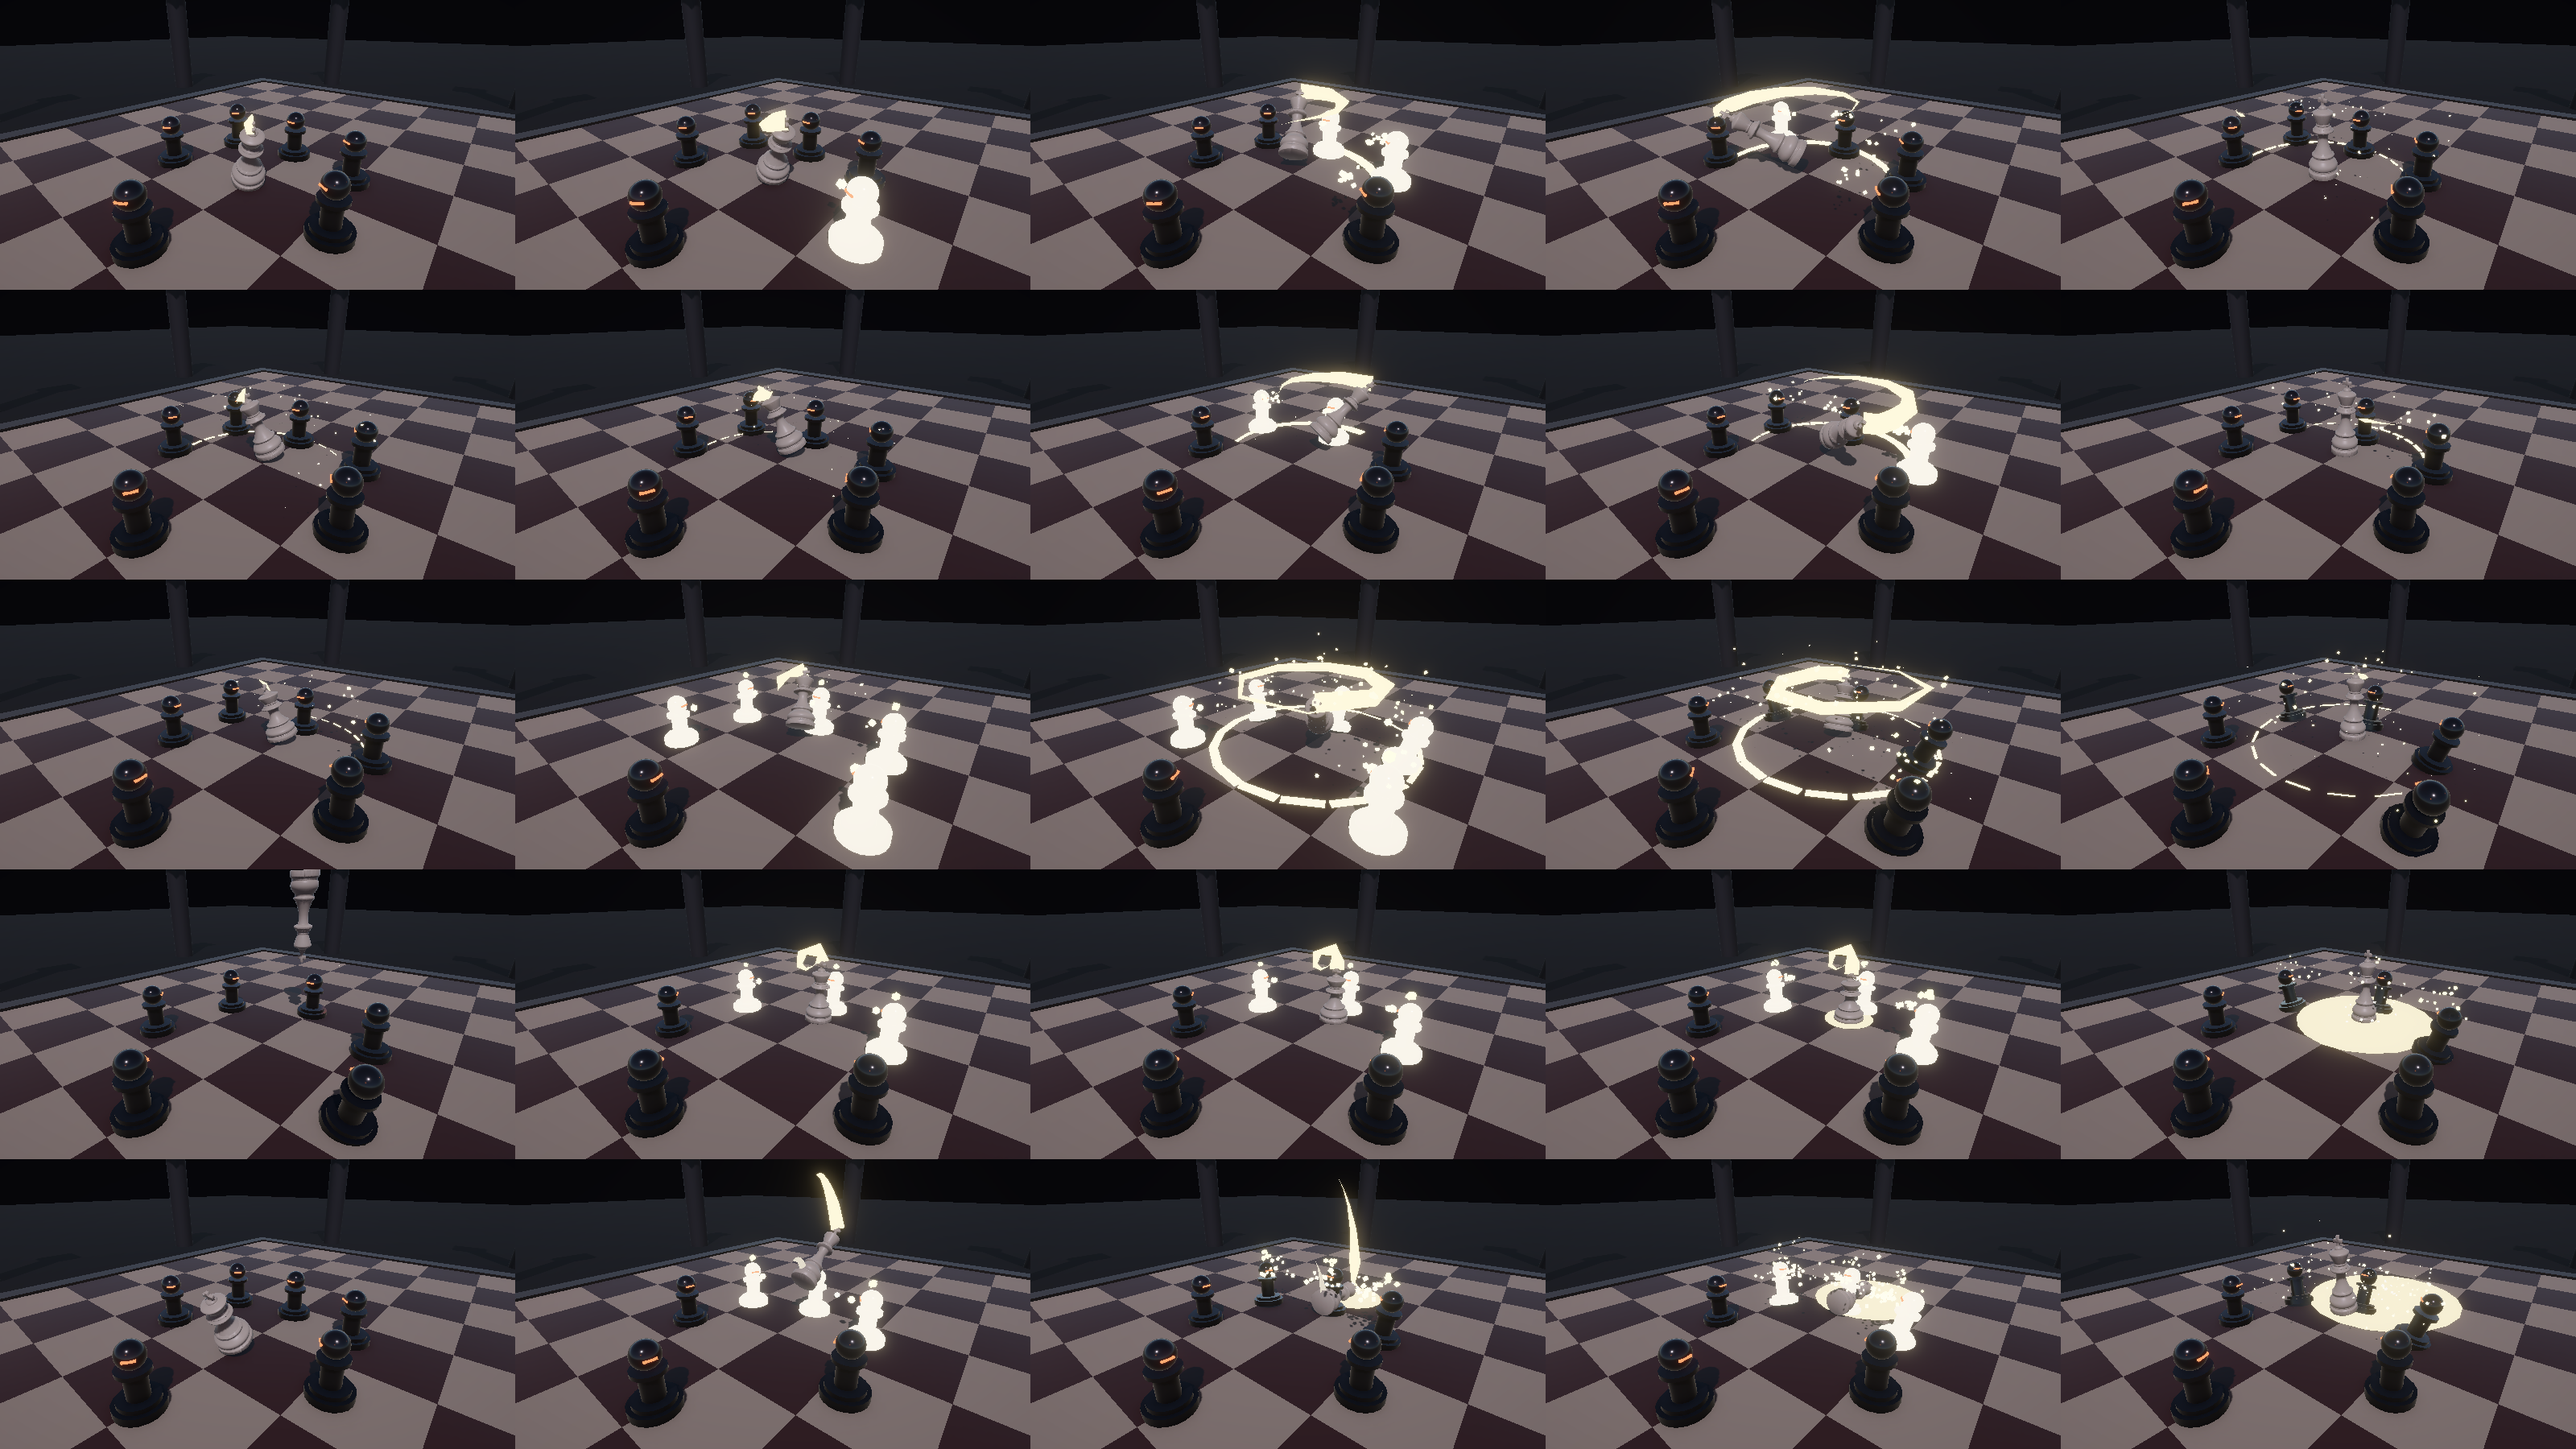
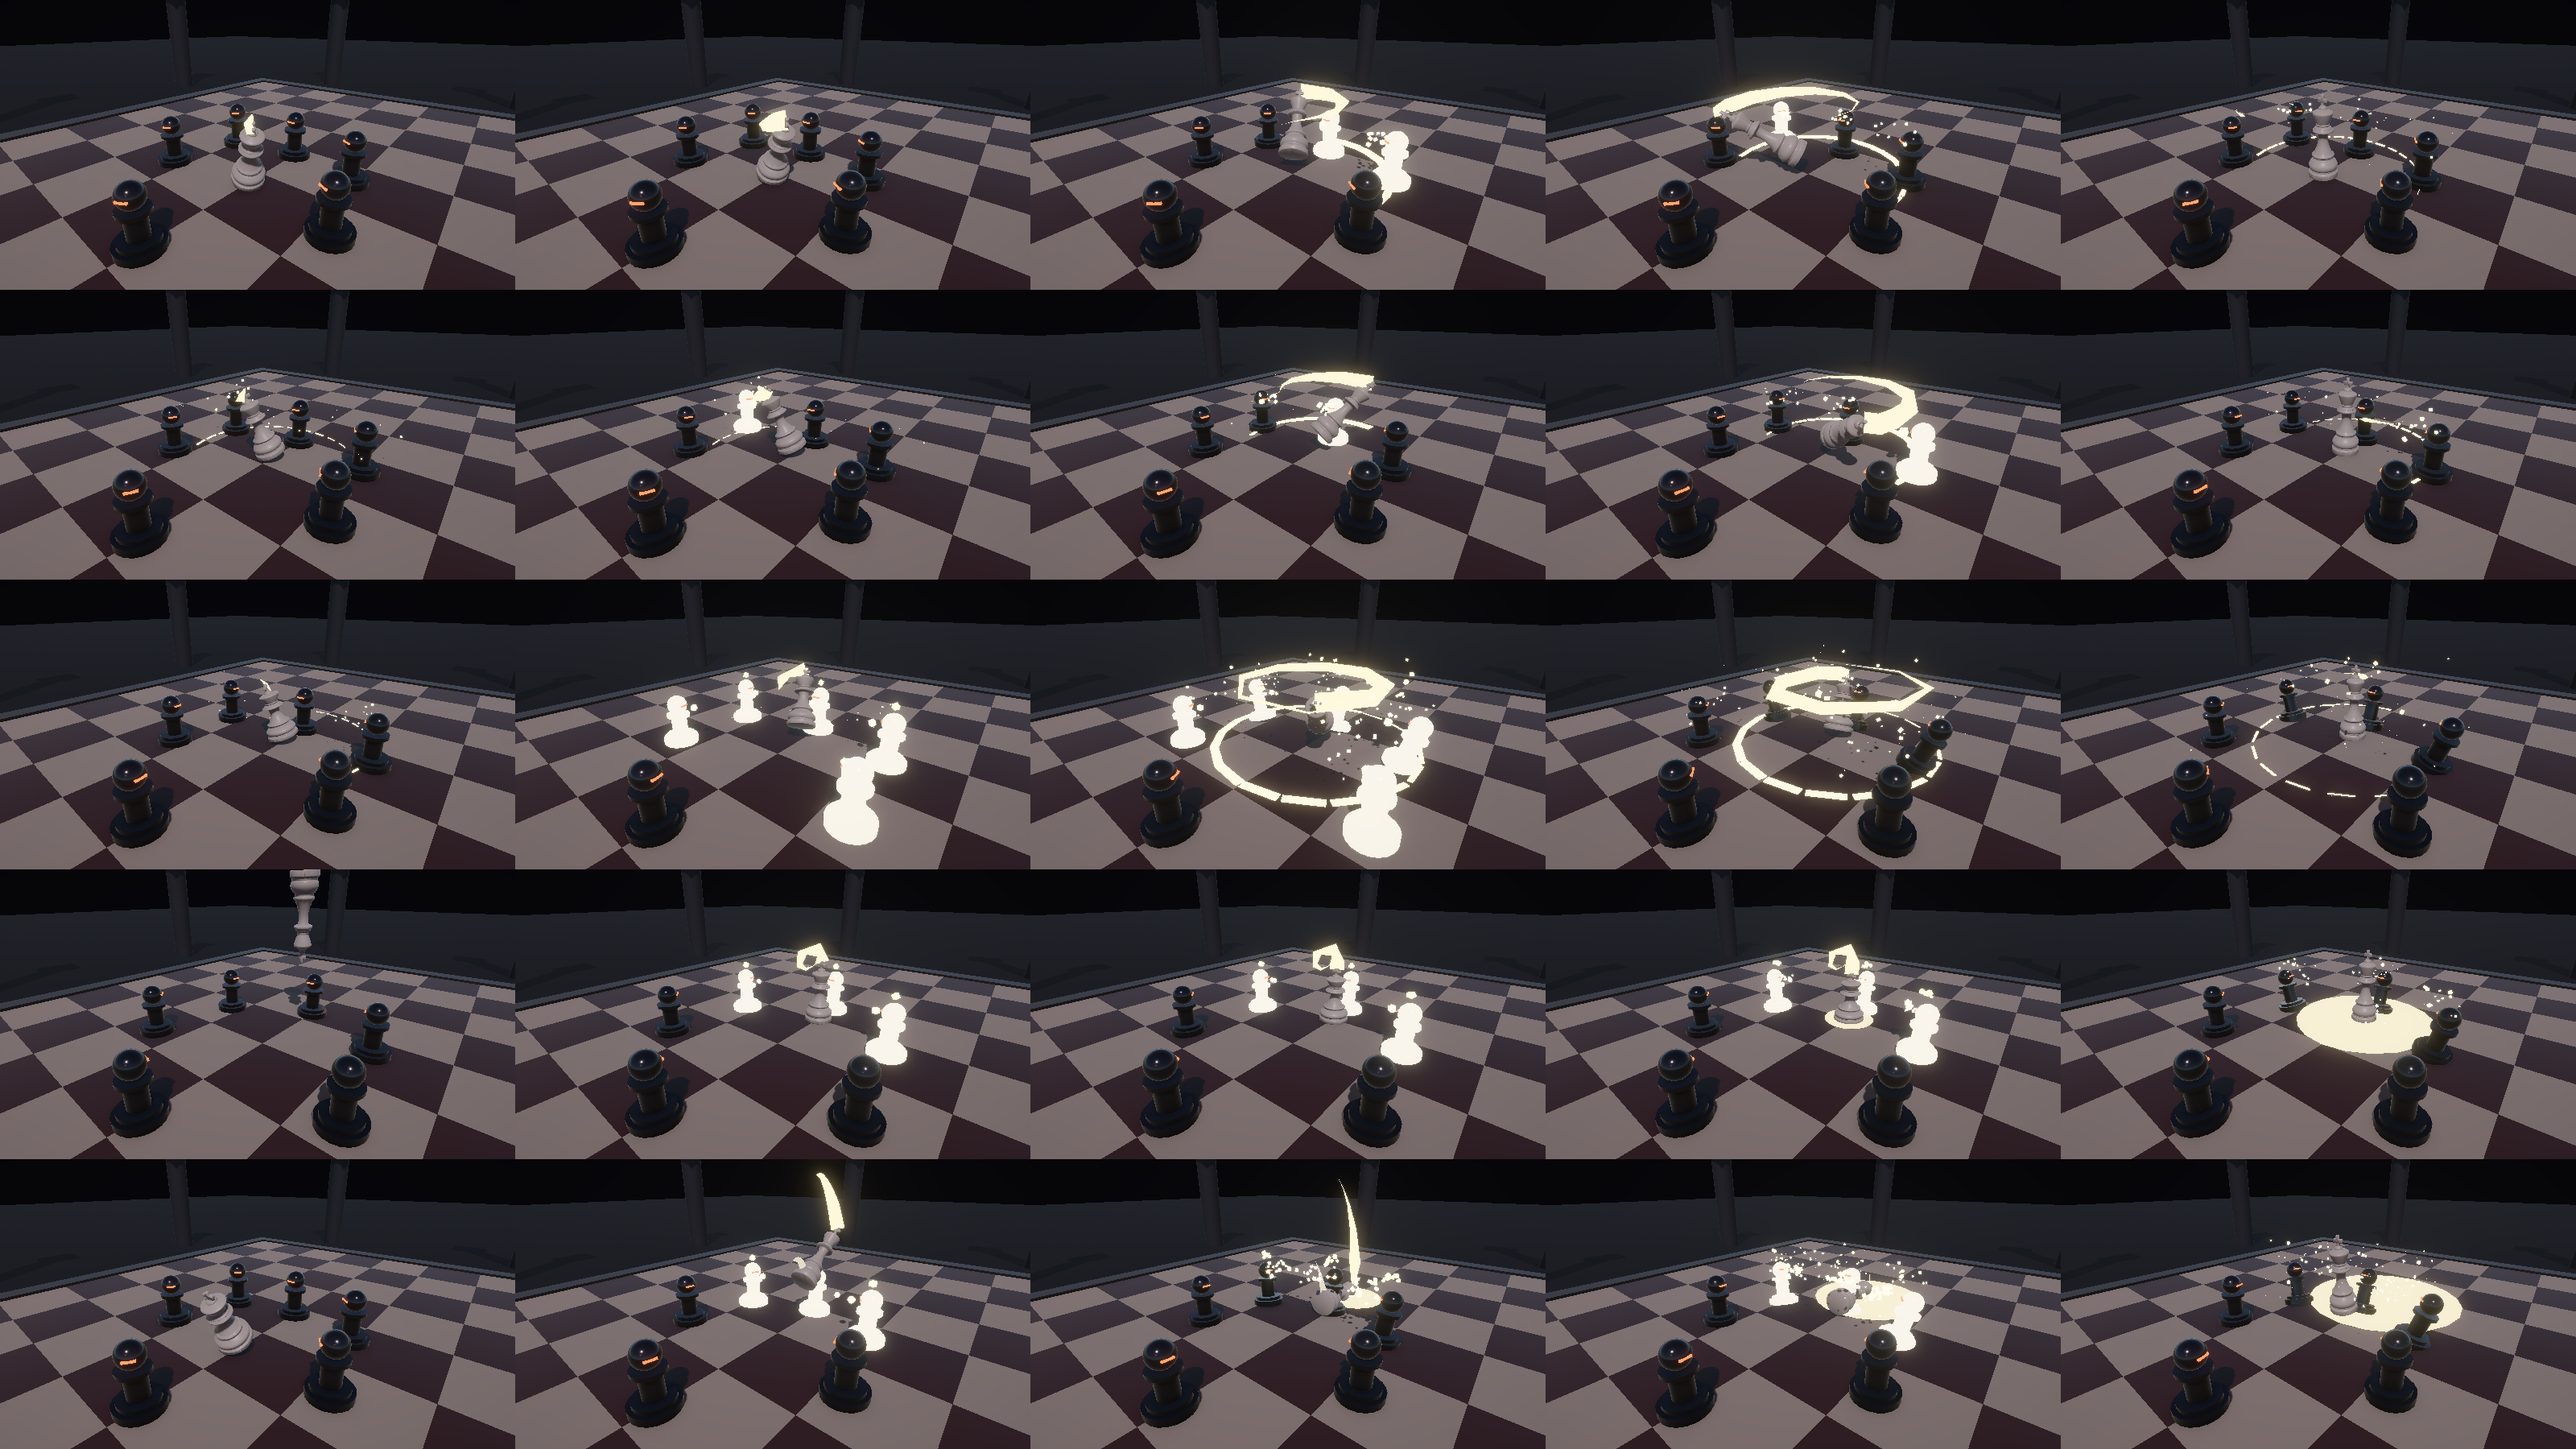
Sprint, cheaper light attacks, throw damage on landing, whips reach forward
- Shift / L3 sprint (8.2 speed, 14 stamina/s, exhaustion until 20) with a
  bigger hop and lean; sprinting breaks lock-on facing
- Light (combo) attacks cost 35% of their listed stamina
- Royal Throw: all damage (75) now lands on impact so the piece always flies
- Royal Whip hit center moved 0.6 forward

diff --git a/Assets/Scripts/Combat/PlayerController.cs b/Assets/Scripts/Combat/PlayerController.cs
@@ -16,6 +16,9 @@ namespace KingLastPiece
         public const float MaxStamina = 100f;
         public const int MaxFlasks = 3;
         const float MoveSpeed = 5.2f, LockedMoveSpeed = 4.3f;
+        const float SprintSpeed = 8.2f, SprintDrain = 14f, SprintRecoverAt = 20f;
+        /// <summary>Light (combo) attacks cost only this fraction of their listed stamina.</summary>
+        const float LightCostScale = 0.35f;
         const float DodgeDuration = 0.5f, IFrameStart = 0.03f, IFrameEnd = 0.36f, DodgeCancelAt = 0.4f;
 
         // Dodge charges replace stamina for rolling: a short burst of rolls, refilled quickly.
@@ -29,7 +32,8 @@ namespace KingLastPiece
 
         // Royal Throw (counter after a perfect dodge): approach, swing the piece around twice, hurl it.
         const float CounterApproach = 0.12f, CounterRelease = 0.74f, CounterDuration = 1.0f;
-        const float SwingRadius = 1.8f, ThrowDamage = 55f, LandingDamage = 20f, SwingHitDamage = 25f;
+        // All of the throw damage lands on impact, so the piece always gets to fly first.
+        const float SwingRadius = 1.8f, ThrowLandingDamage = 75f, SwingHitDamage = 25f;
         const float HealDuration = 1.1f, HealAt = 0.6f, HealAmount = 45f;
         const float StaminaRegen = 45f, StaminaDelay = 0.5f;
         const float BufferWindow = 0.4f, LockRange = 20f;
@@ -48,6 +52,7 @@ namespace KingLastPiece
         /// <summary>A perfect dodge happened and the dodged piece can still be grabbed (shown as a prompt).</summary>
         public bool CounterReady => Game != null && Game.SlowMoActive && justTarget != null && justTarget.CanBeGrabbed;
         public bool IsCountering => state == State.Counter;
+        public bool IsSprinting { get; private set; }
         public bool IsDodging => state == State.Dodge;
         public bool IsAttacking => state == State.Attack;
         public bool IsIdle => state == State.Normal;
@@ -71,7 +76,8 @@ namespace KingLastPiece
         Buffered buffer;
         float bufferTimer, bobPhase;
         float prevMove;
-        float dodgeRecharge;
+        float dodgeRecharge, sprintBlend;
+        bool sprintExhausted;
         bool justThisDodge;
         EnemyBase justTarget, counterTarget;
         Vector3 counterFrom, counterTo;
@@ -190,6 +196,7 @@ namespace KingLastPiece
                 case State.Counter: UpdateCounter(dt); break;
             }
 
+            if (state != State.Normal) IsSprinting = false;
             if (state != State.Attack && state != State.Counter) crownTrail.emitting = baseTrail.emitting = false;
             ClampToBoard();
         }
@@ -317,20 +324,35 @@ namespace KingLastPiece
             if (TryAct()) return;
 
             Vector3 dir = InputDirection();
-            float speed = LockTarget != null ? LockedMoveSpeed : MoveSpeed;
+            float m = dir.magnitude;
+            // Sprint: hold Shift / L3 while moving. Drains stamina; stops when it runs out.
+            IsSprinting = GameInput.SprintHeld && m > 0.3f && Stamina > 0f && (!sprintExhausted || Stamina > SprintRecoverAt);
+            if (IsSprinting)
+            {
+                sprintExhausted = false;
+                if (!InfiniteStamina) Stamina = Mathf.Max(0f, Stamina - SprintDrain * dt);
+                staminaDelay = StaminaDelay * 0.5f;
+                if (Stamina <= 0f) sprintExhausted = true;
+            }
+
+            float speed = IsSprinting ? SprintSpeed : LockTarget != null ? LockedMoveSpeed : MoveSpeed;
             transform.position += dir * (speed * dt);
 
-            if (LockTarget != null) FaceTowards(LockTarget.FlatPos - FlatPos, 900f);
-            else if (dir.sqrMagnitude > 0.01f) FaceTowards(dir, 720f);
+            // Sprinting breaks the lock-on facing, like souls games.
+            if (LockTarget != null && !IsSprinting) FaceTowards(LockTarget.FlatPos - FlatPos, 900f);
+            else if (dir.sqrMagnitude > 0.01f) FaceTowards(dir, IsSprinting ? 900f : 720f);
 
-            // Chess-piece hop while walking, leaning into the movement.
-            float m = dir.magnitude;
+            // Chess-piece hop while walking, leaning into the movement (bigger, faster hops when sprinting).
+            float run = IsSprinting ? 1f : 0f;
+            sprintBlend = Mathf.Lerp(sprintBlend, run, 1f - Mathf.Exp(-8f * dt));
             prevMove = Mathf.Lerp(prevMove, m, 1f - Mathf.Exp(-10f * dt));
-            bobPhase += dt * 10f * m;
-            float hop = m > 0.05f ? Mathf.Abs(Mathf.Sin(bobPhase)) * 0.12f : 0f;
+            bobPhase += dt * Mathf.Lerp(10f, 15f, sprintBlend) * m;
+            float hop = m > 0.05f ? Mathf.Abs(Mathf.Sin(bobPhase)) * Mathf.Lerp(0.12f, 0.22f, sprintBlend) : 0f;
             float heading = 0f;
             if (m > 0.05f) heading = Vector3.SignedAngle(transform.forward, dir, Vector3.up);
-            ApplyPose(BodyPose.P(tilt: 7f * prevMove, heading: heading, lift: hop));
+            ApplyPose(BodyPose.P(tilt: Mathf.Lerp(7f, 18f, sprintBlend) * prevMove, heading: heading, lift: hop));
+            if (IsSprinting && Random.value < 0.25f)
+                Effects.Sparks(FlatPos + Vector3.up * 0.05f, new Color(0.6f, 0.55f, 0.5f), 1, 2f);
         }
 
         void StartAttack(bool heavy)
@@ -343,7 +365,7 @@ namespace KingLastPiece
                 comboIndex = chain ? (comboIndex + 1) % style.lights.Length : 0;
                 atk = style.lights[comboIndex];
             }
-            Consume(atk.cost);
+            Consume(heavy ? atk.cost : atk.cost * LightCostScale);
             hitStopUsed = false;
 
             if (hitSets.Length < atk.hits.Length)
@@ -652,8 +674,7 @@ namespace KingLastPiece
                     ThrowCount++;
                     Vector3 dir = counterTarget.FlatPos - FlatPos;
                     Game.EndSlowMo();
-                    if (counterTarget.TakeHit(ThrowDamage, 0f, transform.position)) Game.ReportDamage(counterTarget, ThrowDamage);
-                    if (!counterTarget.IsDead) counterTarget.Launch(dir, 17f, 7f, LandingDamage);
+                    counterTarget.Launch(dir, 17f, 7f, ThrowLandingDamage);
                     Game.HitStop(0.12f);
                     Game.Rig.Kick(1f);
                     Game.Rig.Shake(0.5f);

diff --git a/Assets/Scripts/Core/Hud.cs b/Assets/Scripts/Core/Hud.cs
@@ -239,7 +239,7 @@ namespace KingLastPiece
         void DrawControlsHint()
         {
             var r = new Rect(20 * scale, Screen.height - 40 * scale, Screen.width, 30 * scale);
-            Text(r, "WASD Move   Mouse Look   LMB Light (hold)   RMB Heavy   Space Roll (x3)   Q Lock-on   R Flask   Esc Pause",
+            Text(r, "WASD Move   Shift Sprint   Mouse Look   LMB Light (hold)   RMB Heavy   Space Roll (x3)   Q Lock-on   R Flask   Esc Pause",
                 new GUIStyle(label) { fontSize = Mathf.RoundToInt(15 * scale), fontStyle = FontStyle.Normal },
                 new Color(1f, 1f, 1f, 0.45f));
         }
@@ -254,7 +254,7 @@ namespace KingLastPiece
                 "Every white piece has fallen. Only the King remains on the board.", small, new Color(0.8f, 0.78f, 0.72f));
 
             string controls =
-                "WASD / Left Stick — Move        Mouse / Right Stick — Camera\n" +
+                "WASD / Left Stick — Move        Shift / L3 — Sprint        Mouse / Right Stick — Camera\n" +
                 "LMB / R1 — Light attack        RMB / R2 — Heavy attack\n" +
                 "Space / B — Roll (3 charges)        Q / R3 — Lock-on        R / X — Royal Flask\n" +
                 "Roll right before a hit → slow motion → LMB: Royal Throw";

diff --git a/Assets/Scripts/Core/GameInput.cs b/Assets/Scripts/Core/GameInput.cs
@@ -70,6 +70,11 @@ namespace KingLastPiece
             (Keyboard.current != null && Keyboard.current.kKey.wasPressedThisFrame) ||
             (Gamepad.current != null && Gamepad.current.rightTrigger.wasPressedThisFrame);
 
+        /// <summary>Sprint button held (Shift / L3).</summary>
+        public static bool SprintHeld =>
+            (Keyboard.current != null && (Keyboard.current.leftShiftKey.isPressed || Keyboard.current.rightShiftKey.isPressed)) ||
+            (Gamepad.current != null && Gamepad.current.leftStickButton.isPressed);
+
         public static bool Dodge =>
             (Keyboard.current != null && Keyboard.current.spaceKey.wasPressedThisFrame) ||
             (Gamepad.current != null && Gamepad.current.buttonEast.wasPressedThisFrame);

diff --git a/Assets/Scripts/Combat/AttackStyles.cs b/Assets/Scripts/Combat/AttackStyles.cs
@@ -256,7 +256,7 @@ namespace KingLastPiece
             {
                 new HitWindow
                 {
-                    start = 0.13f, end = 0.29f, range = 2.8f, arc = 220f, damage = 14f, poise = 14f, shake = 0.16f,
+                    start = 0.13f, end = 0.29f, forward = 0.6f, range = 2.8f, arc = 220f, damage = 14f, poise = 14f, shake = 0.16f,
                     sweep = true, sweepFrom = 110f * side, sweepTo = -110f * side, slash = true,
                 },
             },
